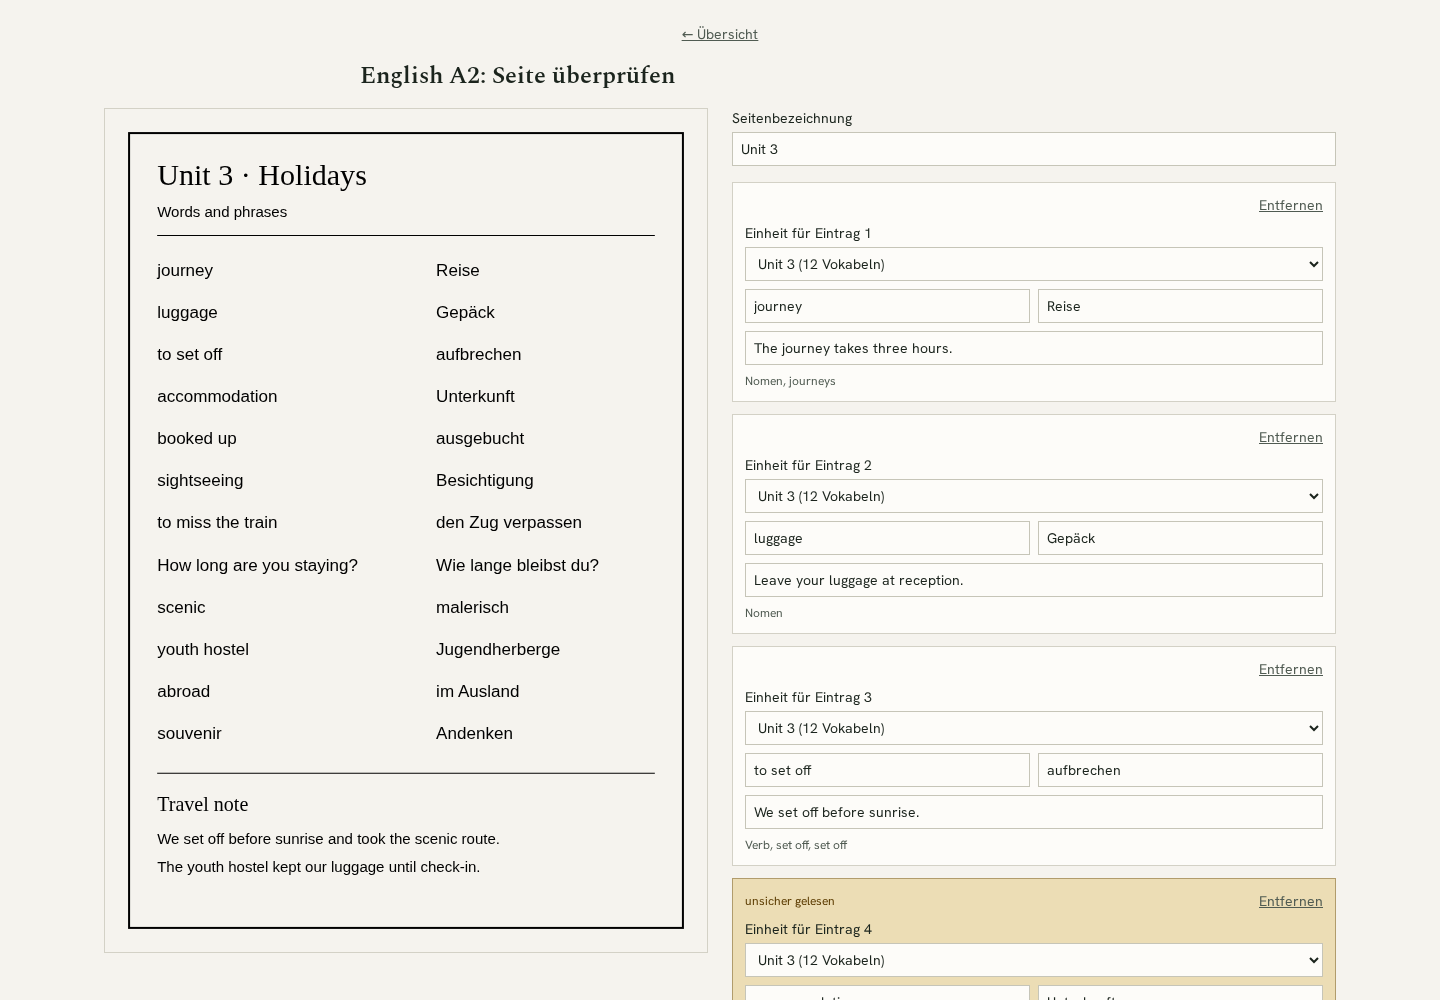
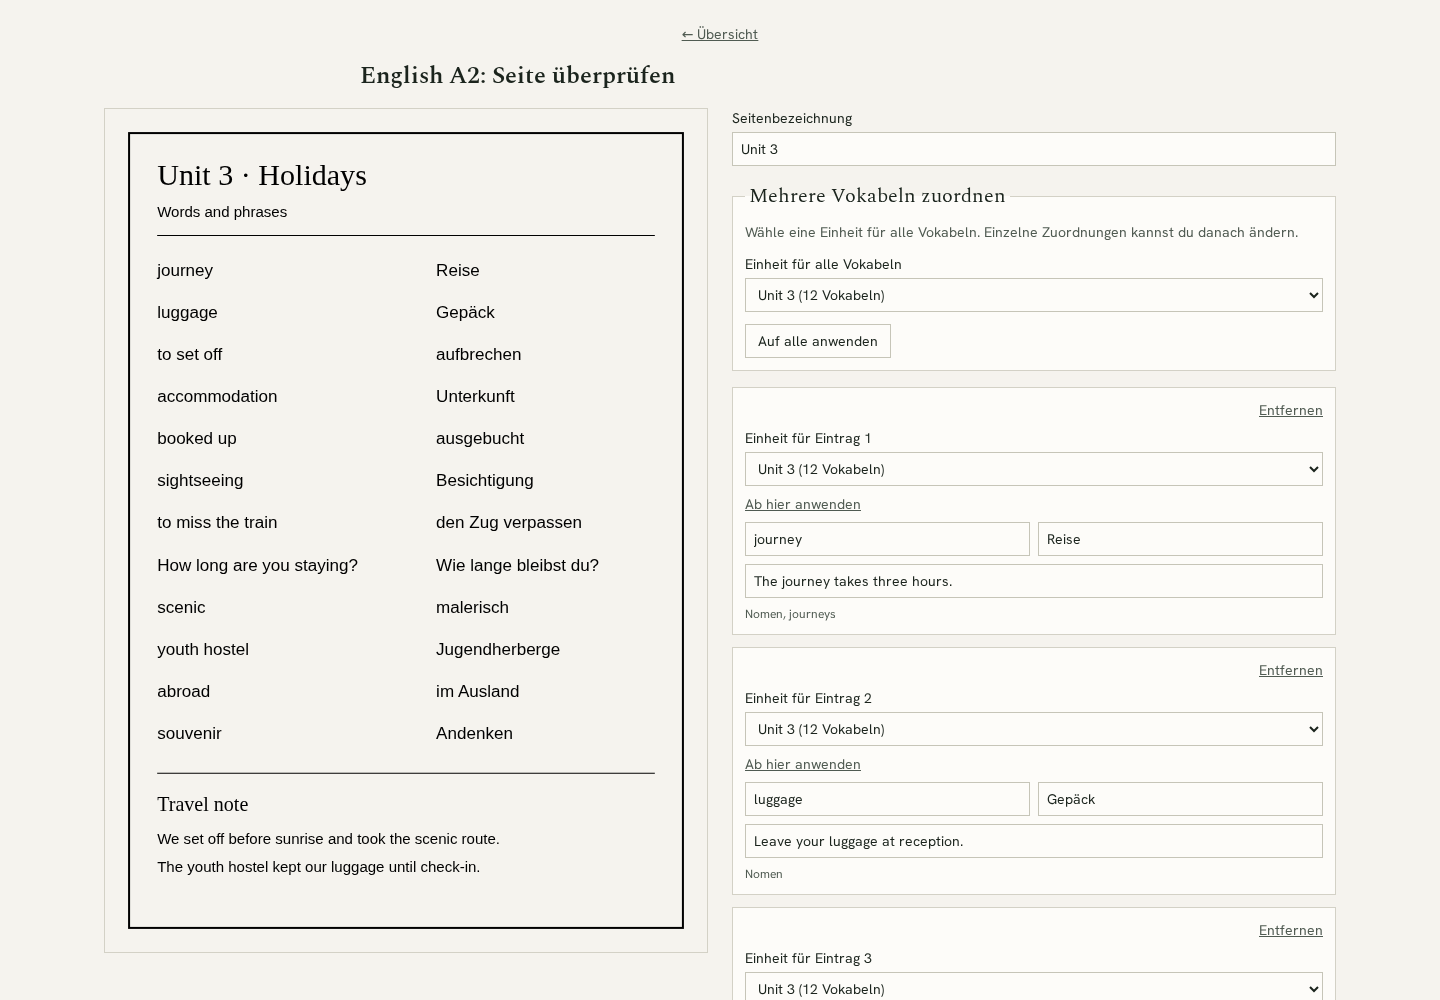
feat(import): add bulk unit assignment

diff --git a/apps/web/src/features/import/ui/verify-form.tsx b/apps/web/src/features/import/ui/verify-form.tsx
@@ -5,8 +5,9 @@ import {
 import { useState } from 'react';
 import type { UnitSelectionData } from '../schemas/import-payload';
 import type { Unit } from '../services/repository';
+import { BulkUnitAssignment } from './bulk-unit-assignment';
 import { type DraftEntry, EntryRow } from './entry-row';
-import { UnitPicker } from './unit-picker';
+import { EntryUnitAssignment } from './entry-unit-assignment';
 
 const emptyEntry: DraftEntry = {
   targetText: '',
@@ -33,6 +34,9 @@ export type VerificationEntry = DraftEntry & {
 const entryIsComplete = (entry: DraftEntry): boolean =>
   entry.targetText.trim() !== '' && entry.nativeText.trim() !== '';
 
+const unitSelectionIsComplete = (selection: UnitSelectionData): boolean =>
+  selection.kind === 'existing' || selection.name.trim() !== '';
+
 // The unit a course is currently working through is the last one started, so
 // that is what the picker opens on. A course with no units yet has nothing to
 // choose from and starts naming one straight away.
@@ -54,6 +58,9 @@ export const VerifyForm = ({
   onSubmit,
 }: VerifyFormProps) => {
   const [label, setLabel] = useState(initialLabel);
+  const [bulkUnit, setBulkUnit] = useState<UnitSelectionData>(() =>
+    initialUnitSelection(units),
+  );
   const [draftEntries, setDraftEntries] = useState<
     ReadonlyArray<VerificationEntry>
   >(() =>
@@ -64,8 +71,8 @@ export const VerifyForm = ({
   );
 
   const complete = draftEntries.filter(entryIsComplete);
-  const unitsNamed = complete.every(
-    (entry) => entry.unit.kind === 'existing' || entry.unit.name.trim() !== '',
+  const unitsNamed = complete.every((entry) =>
+    unitSelectionIsComplete(entry.unit),
   );
 
   return (
@@ -91,6 +98,18 @@ export const VerifyForm = ({
           value={label}
         />
       </label>
+      <BulkUnitAssignment
+        canApply={draftEntries.length > 0 && unitSelectionIsComplete(bulkUnit)}
+        disabled={busy}
+        onApply={() =>
+          setDraftEntries((current) =>
+            current.map((entry) => ({ ...entry, unit: bulkUnit })),
+          )
+        }
+        onChange={setBulkUnit}
+        selection={bulkUnit}
+        units={units}
+      />
       <ul className="flex flex-col gap-3">
         {draftEntries.map((entry, index) => (
           <EntryRow
@@ -99,23 +118,34 @@ export const VerifyForm = ({
             // biome-ignore lint/suspicious/noArrayIndexKey: rows are positional edits of one page
             key={index}
             onChange={(next) =>
-              setDraftEntries(
-                draftEntries.map((current, i) =>
+              setDraftEntries((currentEntries) =>
+                currentEntries.map((current, i) =>
                   i === index ? { ...next, unit: current.unit } : current,
                 ),
               )
             }
             onRemove={() =>
-              setDraftEntries(draftEntries.filter((_, i) => i !== index))
+              setDraftEntries((current) =>
+                current.filter((_, i) => i !== index),
+              )
             }
             targetLabel={targetLabel}
             unitControl={
-              <UnitPicker
+              <EntryUnitAssignment
+                canApplyFollowing={unitSelectionIsComplete(entry.unit)}
                 disabled={busy}
-                label={`Einheit für Eintrag ${index + 1}`}
+                entryNumber={index + 1}
+                hasFollowing={index < draftEntries.length - 1}
+                onApplyFollowing={() =>
+                  setDraftEntries((currentEntries) =>
+                    currentEntries.map((current, i) =>
+                      i >= index ? { ...current, unit: entry.unit } : current,
+                    ),
+                  )
+                }
                 onChange={(unit) =>
-                  setDraftEntries(
-                    draftEntries.map((current, i) =>
+                  setDraftEntries((currentEntries) =>
+                    currentEntries.map((current, i) =>
                       i === index ? { ...current, unit } : current,
                     ),
                   )
@@ -133,9 +163,12 @@ export const VerifyForm = ({
           className="border border-input px-3 py-1.5 text-sm"
           disabled={busy || draftEntries.length >= maximumEntriesPerPage}
           onClick={() =>
-            setDraftEntries([
-              ...draftEntries,
-              { ...emptyEntry, unit: initialUnitSelection(units) },
+            setDraftEntries((current) => [
+              ...current,
+              {
+                ...emptyEntry,
+                unit: current.at(-1)?.unit ?? initialUnitSelection(units),
+              },
             ])
           }
           type="button"

diff --git a/apps/web/a11y/unit-verification.a11y.ts b/apps/web/a11y/unit-verification.a11y.ts
@@ -4,6 +4,80 @@ import { assertNoAccessibilityViolations } from './a11y-assertions';
 
 test.use({ contextOptions: { reducedMotion: 'reduce' } });
 
+const unitTwoId = '11111111-1111-4111-8111-111111111111';
+const unitThreeId = '22222222-2222-4222-8222-222222222222';
+const boundaryIndex = 6;
+
+test('VerifyForm assigns one unit to every entry or from one entry onward', async ({
+  page,
+}) => {
+  await page.goto('/?state=verification');
+  const rows = page.locator('form > ul > li');
+  const unitPickers = rows.locator('select');
+
+  await page.getByLabel('Einheit für alle Vokabeln').selectOption(unitTwoId);
+  await page.getByRole('button', { name: 'Auf alle anwenden' }).click();
+  const initialEntryCount = await rows.count();
+  await expect(unitPickers).toHaveCount(initialEntryCount);
+  expect(
+    await unitPickers.evaluateAll((pickers) =>
+      pickers.map((picker) => (picker as HTMLSelectElement).value),
+    ),
+  ).toEqual(Array.from({ length: initialEntryCount }, () => unitTwoId));
+
+  const boundaryPosition = boundaryIndex + 1;
+  await page
+    .getByLabel(`Einheit für Eintrag ${boundaryPosition}`)
+    .selectOption(unitThreeId);
+  await page
+    .getByRole('button', {
+      name: `Einheit ab Vokabel ${boundaryPosition} anwenden`,
+    })
+    .click();
+
+  expect(
+    await unitPickers.evaluateAll((pickers) =>
+      pickers.map((picker) => (picker as HTMLSelectElement).value),
+    ),
+  ).toEqual(
+    Array.from({ length: initialEntryCount }, (_, index) =>
+      index < boundaryIndex ? unitTwoId : unitThreeId,
+    ),
+  );
+
+  await page.getByRole('button', { name: 'Eintrag hinzufügen' }).click();
+  await expect(
+    page.getByLabel(`Einheit für Eintrag ${(await rows.count()).toString()}`),
+  ).toHaveValue(unitThreeId);
+  assertNoAccessibilityViolations(await scanWcag22AaViolations(page));
+});
+
+test('VerifyForm applies a named new unit to every entry', async ({ page }) => {
+  await page.goto('/?state=verification');
+  const bulkAssignment = page.getByRole('group', {
+    name: 'Mehrere Vokabeln zuordnen',
+  });
+  await bulkAssignment
+    .getByLabel('Einheit für alle Vokabeln')
+    .selectOption('new');
+  const apply = bulkAssignment.getByRole('button', {
+    name: 'Auf alle anwenden',
+  });
+  await expect(apply).toBeDisabled();
+  await bulkAssignment.getByLabel('Name der Einheit').fill('Unit 4');
+  await apply.click();
+
+  const rows = page.locator('form > ul > li');
+  expect(
+    await rows
+      .getByLabel('Name der Einheit')
+      .evaluateAll((names) =>
+        names.map((name) => (name as HTMLInputElement).value),
+      ),
+  ).toEqual(Array.from({ length: await rows.count() }, () => 'Unit 4'));
+  assertNoAccessibilityViolations(await scanWcag22AaViolations(page));
+});
+
 test('VerifyForm defaults to the latest real unit and routes entries independently', async ({
   page,
 }) => {
@@ -95,8 +169,12 @@ test('VerifyForm remains usable in its existing and new-unit mobile states', asy
 }) => {
   await page.setViewportSize({ width: 320, height: 720 });
   await page.goto('/?state=verification');
+  await expect(
+    page.getByRole('group', { name: 'Mehrere Vokabeln zuordnen' }),
+  ).toBeInViewport();
   const firstRow = page.locator('form > ul > li').first();
   const firstUnit = firstRow.getByLabel('Einheit für Eintrag 1');
+  await firstUnit.scrollIntoViewIfNeeded();
   await expect(firstUnit).toBeInViewport();
   assertNoAccessibilityViolations(await scanWcag22AaViolations(page));
   await firstUnit.selectOption('new');

diff --git a/apps/web/src/features/import/ui/entry-unit-assignment.tsx b/apps/web/src/features/import/ui/entry-unit-assignment.tsx
@@ -1,0 +1,49 @@
+import type { UnitSelectionData } from '../schemas/import-payload';
+import type { Unit } from '../services/repository';
+import { UnitPicker } from './unit-picker';
+
+type EntryUnitAssignmentProps = {
+  readonly units: ReadonlyArray<Unit>;
+  readonly selection: UnitSelectionData;
+  readonly entryNumber: number;
+  readonly hasFollowing: boolean;
+  readonly required: boolean;
+  readonly disabled: boolean;
+  readonly canApplyFollowing: boolean;
+  readonly onChange: (selection: UnitSelectionData) => void;
+  readonly onApplyFollowing: () => void;
+};
+
+export const EntryUnitAssignment = ({
+  units,
+  selection,
+  entryNumber,
+  hasFollowing,
+  required,
+  disabled,
+  canApplyFollowing,
+  onChange,
+  onApplyFollowing,
+}: EntryUnitAssignmentProps) => (
+  <div className="flex flex-col gap-2">
+    <UnitPicker
+      disabled={disabled}
+      label={`Einheit für Eintrag ${entryNumber}`}
+      onChange={onChange}
+      required={required}
+      selection={selection}
+      units={units}
+    />
+    {hasFollowing ? (
+      <button
+        aria-label={`Einheit ab Vokabel ${entryNumber} anwenden`}
+        className="w-fit text-muted-foreground text-sm underline"
+        disabled={disabled || !canApplyFollowing}
+        onClick={onApplyFollowing}
+        type="button"
+      >
+        Ab hier anwenden
+      </button>
+    ) : null}
+  </div>
+);

diff --git a/apps/web/src/features/import/ui/bulk-unit-assignment.tsx b/apps/web/src/features/import/ui/bulk-unit-assignment.tsx
@@ -1,0 +1,47 @@
+import type { UnitSelectionData } from '../schemas/import-payload';
+import type { Unit } from '../services/repository';
+import { UnitPicker } from './unit-picker';
+
+type BulkUnitAssignmentProps = {
+  readonly units: ReadonlyArray<Unit>;
+  readonly selection: UnitSelectionData;
+  readonly disabled: boolean;
+  readonly canApply: boolean;
+  readonly onChange: (selection: UnitSelectionData) => void;
+  readonly onApply: () => void;
+};
+
+export const BulkUnitAssignment = ({
+  units,
+  selection,
+  disabled,
+  canApply,
+  onChange,
+  onApply,
+}: BulkUnitAssignmentProps) => (
+  <fieldset className="flex flex-col gap-3 border border-border bg-card p-3">
+    <legend className="px-1 font-display text-xl">
+      Mehrere Vokabeln zuordnen
+    </legend>
+    <p className="text-muted-foreground text-sm">
+      Wähle eine Einheit für alle Vokabeln. Einzelne Zuordnungen kannst du
+      danach ändern.
+    </p>
+    <UnitPicker
+      disabled={disabled}
+      label="Einheit für alle Vokabeln"
+      onChange={onChange}
+      required={false}
+      selection={selection}
+      units={units}
+    />
+    <button
+      className="w-fit border border-input px-3 py-1.5 text-sm disabled:opacity-50"
+      disabled={disabled || !canApply}
+      onClick={onApply}
+      type="button"
+    >
+      Auf alle anwenden
+    </button>
+  </fieldset>
+);

diff --git a/apps/web/a11y/interaction.a11y.ts b/apps/web/a11y/interaction.a11y.ts
@@ -65,12 +65,16 @@ test('VerifyForm freezes every control and ignores resubmission', async ({
   const add = page.getByRole('button', { name: 'Eintrag hinzufügen' });
   const remove = page.getByRole('button', { name: 'Entfernen' });
   const unit = page.getByLabel('Einheit für Eintrag 1');
+  const bulkUnit = page.getByLabel('Einheit für alle Vokabeln');
+  const applyToAll = page.getByRole('button', {
+    name: 'Auf alle anwenden',
+  });
   await label.fill('First label');
   await target.fill('first target');
   await page.getByRole('button', { name: '1 Einträge importieren' }).click();
 
   await Promise.all(
-    [label, target, unit, add, remove].map((control) =>
+    [label, target, unit, bulkUnit, applyToAll, add, remove].map((control) =>
       expect(control).toBeDisabled(),
     ),
   );

diff --git a/apps/web/README.md b/apps/web/README.md
@@ -88,7 +88,7 @@ GitHub OAuth via better-auth (`src/shared/auth/server.ts`) is handled at `/api/a
 
 ## Import flow
 
-`/courses/$courseId/import` uploads a page photo to `POST /api/pages`, which stores the image permanently under `WORDHOLD_DATA_DIR/pages/` for provenance and runs vision extraction. A model failure never loses the photo. The page lands in the "awaiting verification" queue and extraction can be retried. `/pages/$pageId/verify` shows the photo next to the editable extracted entries and asks which unit the vocabulary belongs to, either an existing chapter of the course or a new one named here. A course is a textbook, a unit is a chapter of it, and a page is one photo. A unit usually spans several photos, so a name that already exists resolves to that unit rather than failing. The unit is created in the same transaction as its entries, so a failed import never leaves an empty chapter behind. Importing writes entries, textbook examples, accepted answers in both directions normalized via `src/shared/grading/normalize.ts`, two FSRS cards per entry, and best-effort Polly audio under `WORDHOLD_DATA_DIR/audio/`.
+`/courses/$courseId/import` uploads a page photo to `POST /api/pages`, which stores the image permanently under `WORDHOLD_DATA_DIR/pages/` for provenance and runs vision extraction. A model failure never loses the photo. The page lands in the "awaiting verification" queue and extraction can be retried. `/pages/$pageId/verify` shows the photo next to the editable extracted entries and asks which unit the vocabulary belongs to, either an existing chapter of the course or a new one named here. One selection can be applied to the whole page or from one entry onward, while individual entries remain editable when a photographed page crosses a unit boundary. A course is a textbook, a unit is a chapter of it, and a page is one photo. A unit usually spans several photos, so a name that already exists resolves to that unit rather than failing. The unit is created in the same transaction as its entries, so a failed import never leaves an empty chapter behind. Importing writes entries, textbook examples, accepted answers in both directions normalized via `src/shared/grading/normalize.ts`, two FSRS cards per entry, and best-effort Polly audio under `WORDHOLD_DATA_DIR/audio/`.
 
 Uploads accept JPEG, PNG, and WebP images up to 12 MiB, 12,000 pixels per side, and 40 million pixels total. Wordhold reads the format and dimensions from the file bytes instead of trusting the browser MIME declaration. Each verified page accepts at most 100 entries, and one import can make at most 50 Polly calls. Before new page or audio writes, storage reconciliation removes generated files older than 24 hours only when no page or audio row references them. This clears crash leftovers without touching recent in-flight writes or unrelated files.
 
